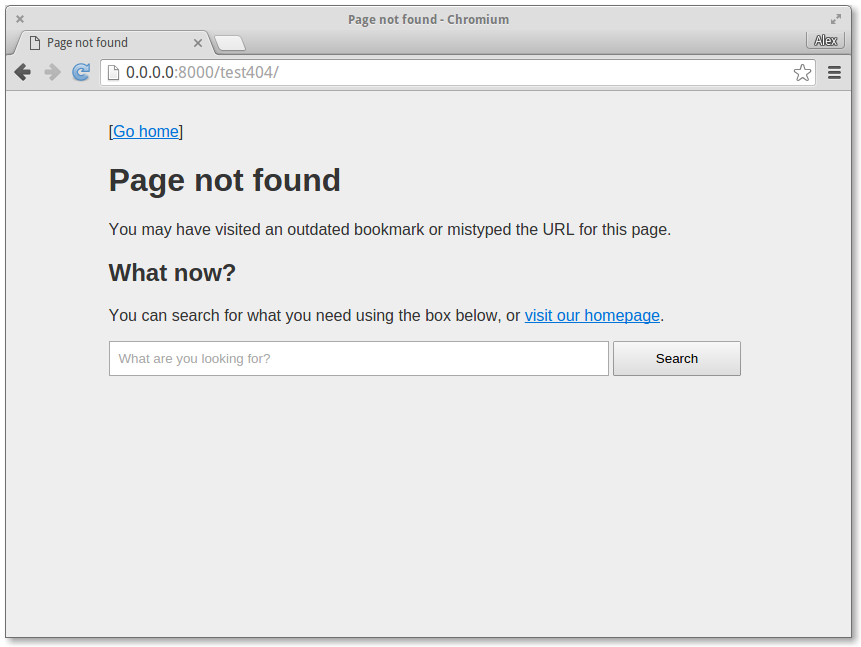
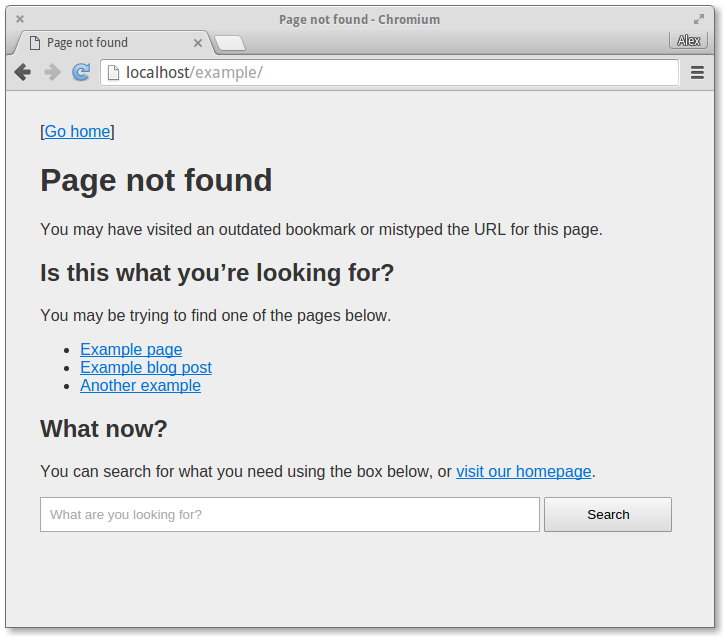
Updated readme, bumped version

diff --git a/wagtailerrorpages/__init__.py b/wagtailerrorpages/__init__.py
@@ -1,1 +1,1 @@
-__version__ = '1.1.0'
+__version__ = '1.1.1'

diff --git a/README.md b/README.md
@@ -3,7 +3,6 @@ Wagtail Error Pages
 Pretty, smart, customizable error pages for Wagtail. It was inspired by A List Apart's article on [The Perfect 404](http://alistapart.com/article/perfect404).
 
 ![Default 404 page](screenshots/error404.png)
-![Default 500 page](screenshots/error500.png)
 
 #### Features:
 * Simple language (no jargon)
@@ -11,6 +10,10 @@ Pretty, smart, customizable error pages for Wagtail. It was inspired by A List A
 * Suggests pages by searching the URL
 * Adjusts message depending on where the user came from
 * Customizable
+
+Search
+------
+The 404 page tries to suggest pages the user may be looking for based on the URL entered. If the user doesn't find what they're looking for, they are encouraged to search or visit the home page.
 
 Messages
 --------
@@ -54,6 +57,14 @@ If you just want the 404 page content (message and search box), you can drop it 
     {% message404 %}
 
 This might be useful if you'd prefer to keep the 404 page inside of your site's base layout.
+
+Custom search behavior
+----------------------
+If you'd like to override how the suggestions are shown, import the 404 message in your template like this:
+
+    {% include "wagtailerrorpages/fragments/404message.html" with search_results=MY_PAGES_LIST %}
+
+Then do the search in Python and render the pages list appropriately.
 
 Extending the base404 template
 ------------------------------
